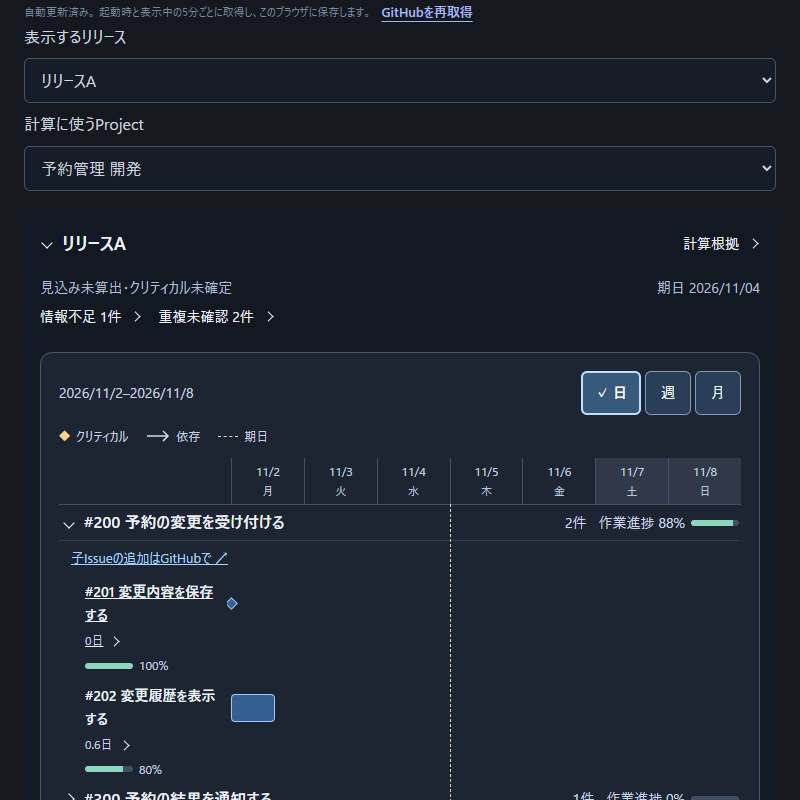
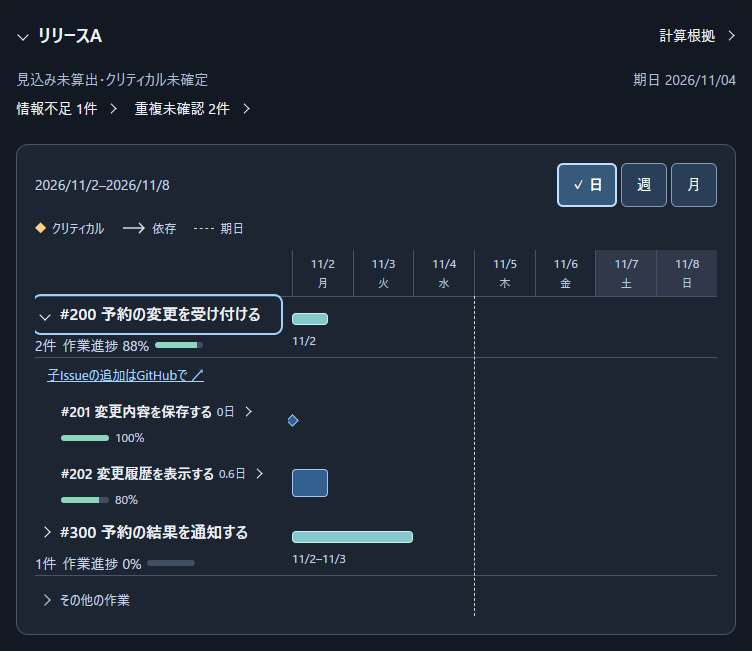
feat(gantt): 子を閉じたまま親の日程を共通の時間軸で比較する
- 選択したリリースの末端作業から親の開始と終了を求め、部分算出と未算出を区別する。
- 親と子に同じ座標変換を適用し、通常幅では目標名と進捗を2行にまとめる。
- 日週月・横スクロール・中間親・単日と日内端数の実画面検証を追加する。

diff --git a/dist/gantt.css b/dist/gantt.css
@@ -23,19 +23,26 @@
 .gantt [role="group"][aria-labelledby] .name { padding-inline-start: calc(12px + var(--level) * 14px); box-sizing: border-box; }
 
 .gantt-source + .gantt-source { margin-top: 8px; }
-.gantt .goal-heading { display:flex; align-items:center; justify-content:space-between; gap:8px; width:min(100%, calc(100cqw - 40px)); position:sticky; left:0; }
+.gantt .gantt-goal-row { min-height:60px; border-bottom:1px solid #47546a; }
+.gantt .gantt-goal-row .parent-heading { position:sticky; left:0; z-index:2; display:flex; flex-direction:column; justify-content:center; align-items:stretch; gap:2px; min-width:0; background:#1d2533; border:0; }
+.gantt .goal-bar { height:12px; top:16px; background:#85c8cc; border:1px solid #c8edf0; }
+.gantt .goal-bar.point { top:17px; }
+.gantt .goal-bar.partial { border-style:dashed; background:repeating-linear-gradient(120deg,#345661 0 4px,#7caeb7 4px 7px); }
+.gantt .goal-period { position:absolute; top:34px; left:0; color:#c8d7e5; font-size:12px; }
+
 .gantt .goal-heading .fold-button { max-width:none; position:static; min-width:0; }
-.gantt .goal-metrics { display:flex; justify-content:flex-end; align-items:center; flex-wrap:wrap; gap:4px 12px; font-size:14px; color:#c8d7e5; font-variant-numeric:tabular-nums; }
+.gantt .goal-metrics { display:flex; justify-content:flex-start; align-items:center; flex-wrap:wrap; gap:2px 6px; font-size:14px; color:#c8d7e5; font-variant-numeric:tabular-nums; }
 .gantt .goal-work-progress { display:inline-flex; align-items:center; flex-wrap:wrap; gap:6px; }
 .gantt .goal-issue { display:inline-block; margin:6px 12px; font-size:13px; }
-.gantt.goals-only :is(.timeline-toolbar,.legend,.row.header,.due-marker,.connections) { display:none; }
-.gantt.goals-only .chart { min-width:0; }
-.gantt.goals-only .goal-heading { width:100%; }
+.gantt.goals-only .legend .key:not([data-gantt="due-legend"]) { display:none; }
 
 .gantt .other-heading { border:0; margin-top:8px; }
 .gantt .other-heading .fold-button { font-size:13px; font-weight:400; color:#c6d2e3; }
 
 @container (max-width:380px) {
-  .gantt .goal-heading { flex-wrap:wrap; gap:0 8px; padding-bottom:4px; }
-  .gantt .goal-metrics { margin-left:auto; }
+  .gantt .goal-heading { padding-bottom:4px; }
+}
+
+@container (min-width:540px) {
+  .gantt .chart { --name-width:clamp(235px, 34cqw, 420px); }
 }

diff --git a/docs/milestone-gantt-ui.md b/docs/milestone-gantt-ui.md
@@ -125,7 +125,13 @@ Codexが同じ基本fixtureの60%を表示した `http://127.0.0.1:4402/` で、
 作業進捗は、各作業の見積と作業進捗率を掛けた値の合計を見積の合計で割り、小数第1位まで表示する。
 見積または作業進捗率に不足や不正な値があれば理由を示し、確定できた作業だけの割合は表示しない。
 Issueの完了や利用者受入はこの割合から推定しない。
-目標を開くと子作業の日程と親Issueへのリンクを表示する。
+目標を閉じている間も、同じ時間軸に各目標の日程を表示する。
+日程は選んだリリースに属する末端作業の最も早い開始から最も遅い終了までとし、リリース外の前提は含めない。
+開始と終了の位置が同じなら点で示す。
+一部の作業だけ日程が分かる場合は、算出できた範囲と件数を「一部」と表示する。
+全件の日程が不明なら日程棒を表示しない。完了済み作業の実績日は推定しない。
+目標を開くと親の日程を残し、同じ軸に中間の親と子作業を表示する。
+子Issueを追加するときは、目標内のリンクでGitHubの親Issueを開く。
 親を特定できない作業とリリース外の前提は、目標一覧の末尾にある「その他の作業」から開く。
 依存線は両端の作業が見える場合に描き、詳細では折りたたんだ作業の前提・後続もたどれる。
 日・週・月の切替、リリースの再展開、同じ画面での再取得では、リリースごとの開閉状態を保持する。

diff --git a/docs/usage.md b/docs/usage.md
@@ -86,7 +86,7 @@
 GitHubの計画を取得したプロジェクトで、次の順に確認する。
 
 1. 「リリース」タブで「表示するリリース」を選ぶ。計算元の候補が複数あるときは「計算に使うProject」を選ぶ。
-2. 目標ごとの件数と作業進捗を比べ、確認したい目標を開く。子作業の日程は日・週・月で切り替えられる。
+2. 左の作業進捗と右の時間軸で目標同士を比較する。目標を開くと、親と子の日程が同じ軸に並ぶ。日・週・月で切り替えられる。
 3. 作業名を押して前提・後続へ進むか、「担当調整」「情報不足」から見直す作業を開く。
 4. 「戻る」で直前の詳細へ、「閉じる」またはEscapeで一覧へ戻る。
 5. 「GitHubで開く」で出典のIssueを確認する。
